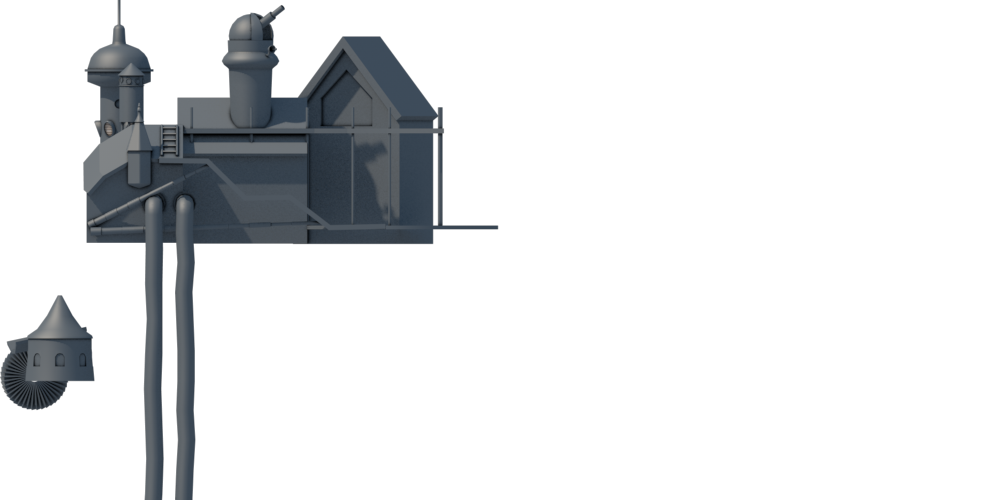
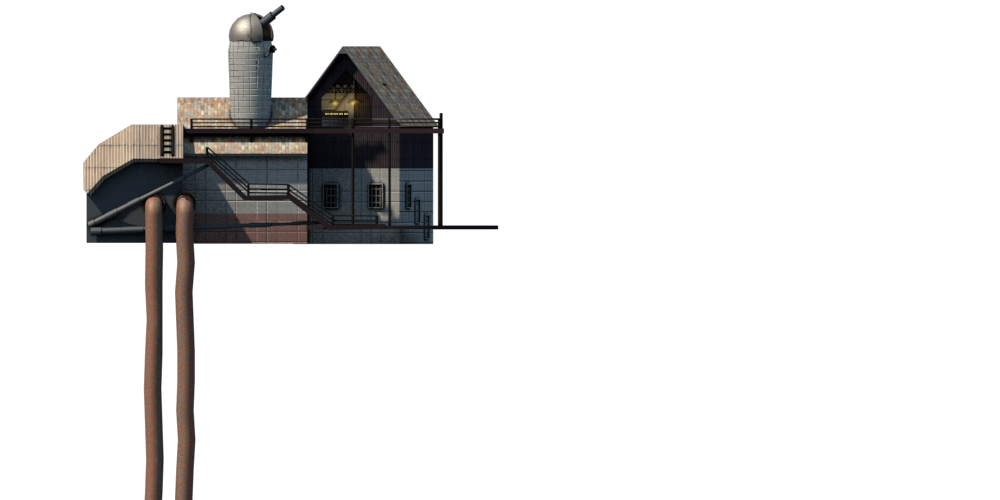
* Update

Changed region(s): [[0.062, 0.0, 0.496, 1.0], [0.0, 0.6, 0.093, 0.84]]

diff --git a/Clinfinity.c4f/KOTH_Observatory.c4s/Script.c b/Clinfinity.c4f/KOTH_Observatory.c4s/Script.c
@@ -3,27 +3,60 @@
 #strict 2
 
 func Initialize() {
-	/* create goal
-	var cp = CreateObject(SHIP, LandscapeWidth() / 2, LandscapeHeight() / 2, NO_OWNER);
+	var cp = CreateObject(OBSV,1210,1170,-1);
+	cp -> SetClrModulation(RGBa(235,230,255,10));
 	var koth = CreateObject(KOTH, 0, 0, NO_OWNER);
 	koth->SetCP(cp);
 	
-	//var mast1 = CreateObject(TEL1,168,417,-1);
-  //var mast2 = CreateObject(TEL1,259,419,-1);
-  //CreateObject(WIRE)->Connect(mast1,mast2);
-  }
+  //Observatory Parts
+	var tw1 = CreateObject(TW_1,1087,825);
+	tw1 -> SetClrModulation(RGBa(230,220,255,80));
+	var tw2 = CreateObject(TW_2,1019,1050);
+	tw2 -> SetClrModulation(RGBa(230,220,255,5));
+
+	//Mountains
+	var MtL = CreateObject(MONT,900,1350);
+	var MtR = CreateObject(MONT,1400,1350);
 	
-	// steampunky flair
-	SetGamma(RGB(15,15,20),RGB(118,118,118),RGB(210,215,255));
-	
-  // place fog
-	for(var i;i<160;++i) 
-    CreateParticle("Cloud",Random(LandscapeWidth()),Random(LandscapeHeight()*2/3),RandomX(3,9),0,RandomX(1000,1500),RGBa(116,131,145,0));
-	
-	ScriptGo(1);
-	*/
-	
-  CreateObject(OBSV,1210,1170);
+	//Moon
+	var moon = CreateObject(MOON,1337,490);
+	moon -> SetClrModulation(RGBa(255,255,255,80));
+  
+  //Trees
+  CreateObject(TRE4,1076,905,-1);
+  CreateObject(TRE4,1067,926,-1);
+  CreateObject(TRE4,1184,917,-1);
+  CreateObject(TRE4,1182,904,-1);
+  CreateObject(TRE4,1190,918,-1);
+  CreateObject(TRE4,1175,922,-1);
+  CreateObject(TRE4,1231,926,-1);
+  CreateObject(TRE4,1206,925,-1);
+  CreateObject(TRE4,1211,905,-1);
+  CreateObject(TRE4,1251,921,-1);
+  CreateObject(TRE4,1341,922,-1);
+  CreateObject(TRE4,1317,920,-1);;
+  CreateObject(TRE4,1377,925,-1);
+  CreateObject(TRE4,1083,931,-1);
+  CreateObject(TRE4,1163,964,-1);
+  CreateObject(TRE4,1190,961,-1);
+  CreateObject(TRE4,1180,963,-1);
+  CreateObject(TRE4,1227,946,-1);
+  CreateObject(TRE4,1293,961,-1);;
+  CreateObject(TRE4,1264,936,-1);
+  CreateObject(TRE4,1291,941,-1);
+  CreateObject(TRE4,1340,968,-1);
+  CreateObject(TRE4,1345,945,-1);
+  CreateObject(TRE4,1313,972,-1);
+  CreateObject(TRE4,1372,961,-1);
+  CreateObject(TRE4,1392,1051,-1);
+  CreateObject(TRE4,1404,1076,-1);
+}
+
+func GetStartPosition(int team) {
+	if(team == 1)
+		return [200, 400];
+	if(team == 2)
+		return [2240, 400];
 }
 
 func InitializePlayer(int plr) {
@@ -31,17 +64,25 @@ func InitializePlayer(int plr) {
 	// fill with material
 	var msys = GetMatSys(plr);
 	msys->DoFill(5, WOOD);
-	msys->DoFill(10, METL);
+	msys->DoFill(15, METL);
 	msys->DoFill(10, ROCK);
 
+	var team = GetPlayerTeam(plr);
+	var pos = GetStartPosition(team);
+	if(GetLength(GetPlayersByTeam(team)) == 1) {
+		CreateStartMaterial(pos[0], pos[1], plr);
+	}
+
+	var tank = FindObject2(Find_ID(STMT), Find_Allied(plr));
+	tank->DoFill(300);
+	var i = 0, clonk;
+	while(clonk = GetCrew(plr, i++))
+		clonk->Enter(tank);
+
 }
 
-func Script0()
-{
-  CreateParticle("Cloud",0,Random(LandscapeHeight()*2/3),RandomX(3,9),0,RandomX(1000,1500), RGBa(116,131,145,0)); 
-}
-
-func Script4()
-{
-  return(goto(0));
+func CreateStartMaterial(int x, int y, int plr) {
+	PLTF->CreatePlatform(x, y, plr);
+	CreateConstruction(STMT, x + 10, y - 5, plr, 100);
+	CreateObject(CATA, x + Random(20), y - 5, plr);
 }

diff --git a/Clinfinity.c4f/KOTH_Observatory.c4s/Observatory.c4d/Script.c b/Clinfinity.c4f/KOTH_Observatory.c4s/Observatory.c4d/Script.c
@@ -1,8 +1,28 @@
-/*-- Neues Objekt --*/
+/*-- Observatory --*/
 
-#strict
+#strict 2
 
-func Initialize() {
-   
-  return(1);
+// this is a control point
+#include L_CP
+
+local flag;
+
+public func Initialize() {
+	SetAction("MakeSound");
+
+	flag = CreateObject(FLAG, 0, 0, NO_OWNER);
+	flag->SetAction("FlyBase", this);
 }
+
+private func Captured() {
+	flag->SetOwner(GetOwner());
+	return inherited(...);
+}
+
+public func CaptureTime() { return 400; }
+
+public func CaptureZone() {
+	// on top of the platform
+	return Find_InRect(-65, -150, 121, 30);
+}
+
